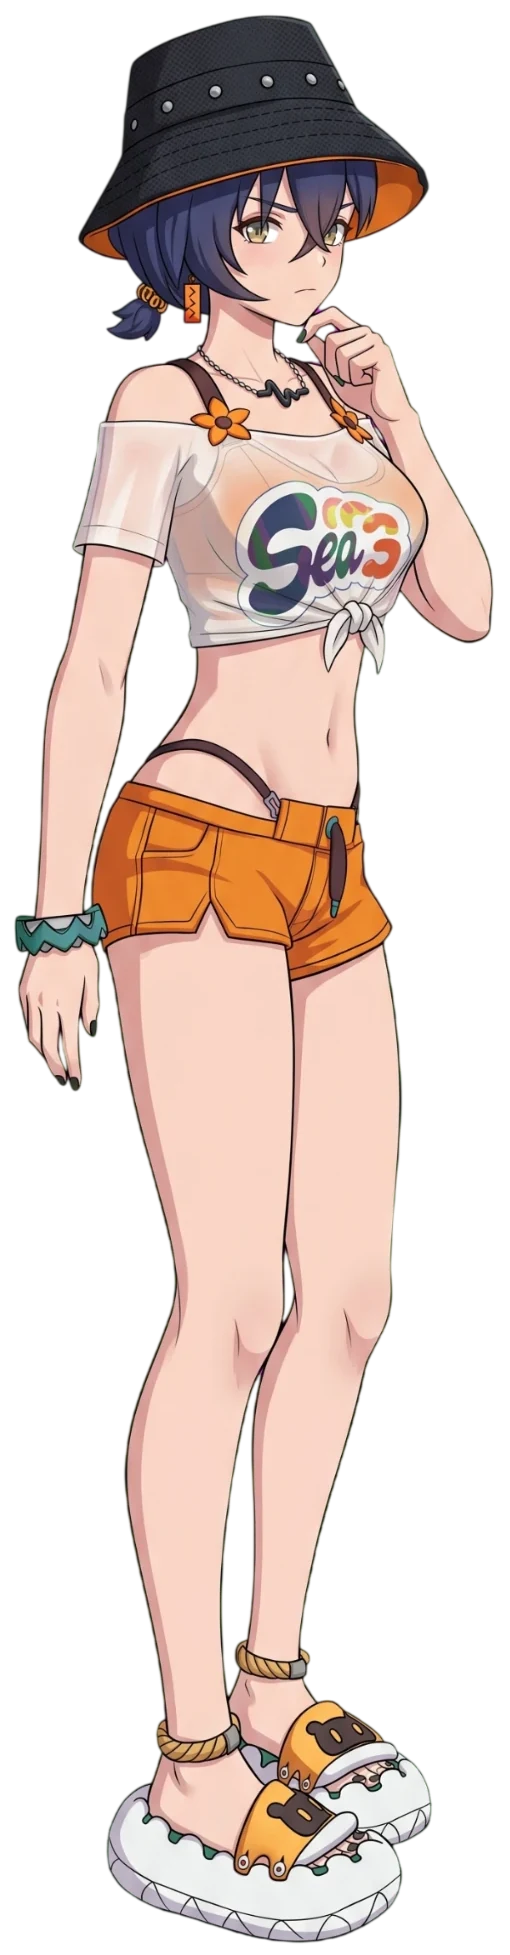
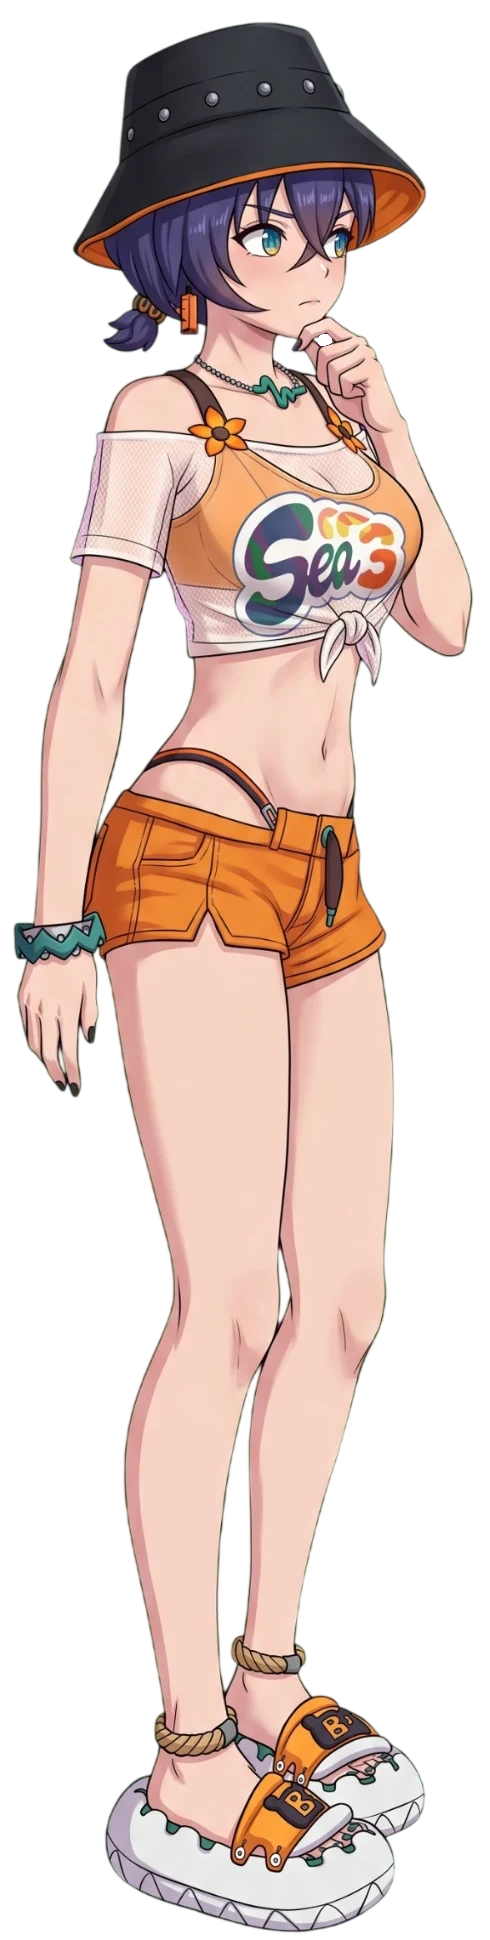
v0.02: 벨 고뇌 이미지를 시선이 오른쪽을 보는 새 그림으로 교체
- images/characters/벨_고뇌.webp: 새 벨(시선이 오른쪽 바깥을 봄, 490x1940). 손가락 틈에 남은 분홍색 배경 조각을 투명하게 정리
- CHAR['벨'] 크기, 눈, 무릎, 모자 꼭대기 좌표를 새 그림에 맞게 다시 잼 (무릎은 화면 맨 아래, 모자 꼭대기는 화면 높이의 72%)
- 버전 표시 0.02

Claude-Session: https://claude.ai/code/session_01723wx7UbKFdY6m1HTBU8pG

Changed region(s): [[0.0306, 0.0, 0.9796, 1.0]]

diff --git a/index.html b/index.html
@@ -748,7 +748,7 @@ body.tt-on tw-passage { display: none; }
   var CHAR_WEB_BASE = 'images/characters/';
   var CHAR_BASE = (location.protocol === 'file:') ? CHAR_LOCAL_BASE : CHAR_WEB_BASE;
   var EXPRESSION = '진지';                // 기본 표정 이름: 파일 이름 뒤에 붙음 (이름_진지.png). 인물마다 CHAR 안에 expr 로 따로 정할 수 있음 (예: 벨_고뇌.webp)
-  var BUILD_VERSION = '0.01';             // 화면 오른쪽 위에 작게 보이는 버전. 뭔가 바꿀 때마다 0.01 씩 올릴 것 (사용자 요청)
+  var BUILD_VERSION = '0.02';             // 화면 오른쪽 위에 작게 보이는 버전. 뭔가 바꿀 때마다 0.01 씩 올릴 것 (사용자 요청)
   var ANCHOR = '벨';                      // 기준 인물
   // 다른 인물들의 크기/눈높이 기준은 예전 벨 그림의 수치를 그대로 쓴다 (벨 그림을 새로 바꿔도 다른 인물 배치가 안 변하게 고정)
   var ANCHOR_REF = { box: [90, 22, 301, 704], eye: [211.5, 98.4], d: 31.6 };
@@ -757,7 +757,7 @@ body.tt-on tw-passage { display: none; }
   var CHAR = {
     // 벨 2차 그림(측면, 턱에 손, 파일 이름 벨_고뇌): knee 는 무릎 높이(그림 픽셀). 무릎이 화면 맨 아래, 모자 꼭대기(top)가 화면 높이의 topAt 에 오도록 크기를 정함.
     //   (top/topAt 대신 눈높이를 화면 정중앙에 두려면 top, topAt 을 지우면 돼) faceX: 얼굴 가운데의 화면 가로 위치 (화면 폭의 %)
-    '벨':    { expr: '고뇌', size: [510, 1955], box: [14, 14, 493, 1943], eye: [293, 234], d: 75, knee: 1325, top: 14, topAt: 0.72, faceX: 30, tune: 1 },
+    '벨':    { expr: '고뇌', size: [490, 1940], box: [13, 21, 473, 1932], eye: [305, 240], d: 70, knee: 1325, top: 21, topAt: 0.72, faceX: 30, tune: 1 },
     '이블린': { size: [402, 719], box: [54, 31, 344, 706],  eye: [209.5, 95.4],  d: 30.6, tune: 1 },
     '아리아': { size: [402, 720], box: [27, 33, 371, 697],  eye: [191.8, 112.2], d: 29.2, tune: 1 },
     '레미엘': { size: [402, 720], box: [0, 14, 402, 720],   eye: [195.9, 78.8],  d: 32.8, tune: 1 },
